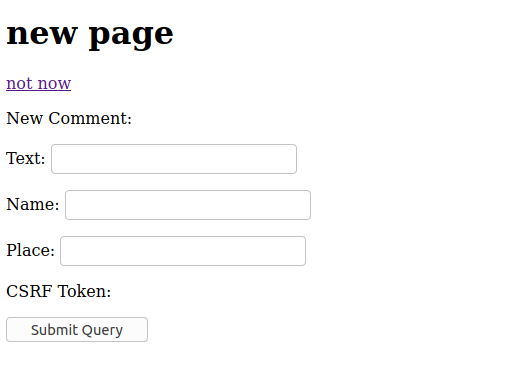
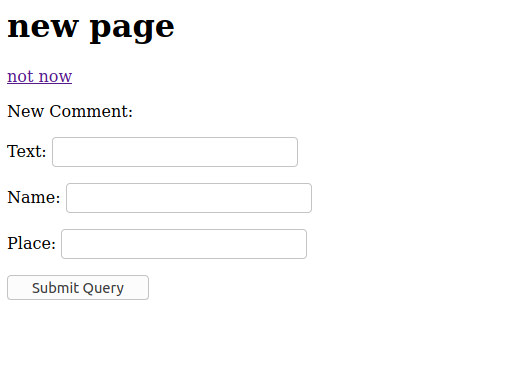
d

diff --git a/d3_orm/302_modelform/templates/new.html b/d3_orm/302_modelform/templates/new.html
@@ -9,7 +9,9 @@ new page
 <p>New Comment:</p>
 <form method="POST">
 	{% for field in form %}
+	{% if not field.flags.hidden %}
 	<p>{{ field.label }}: {{ field }}</p>
+	{% endif %}
 	{% endfor %}
 	<input type=submit>
 </form>
